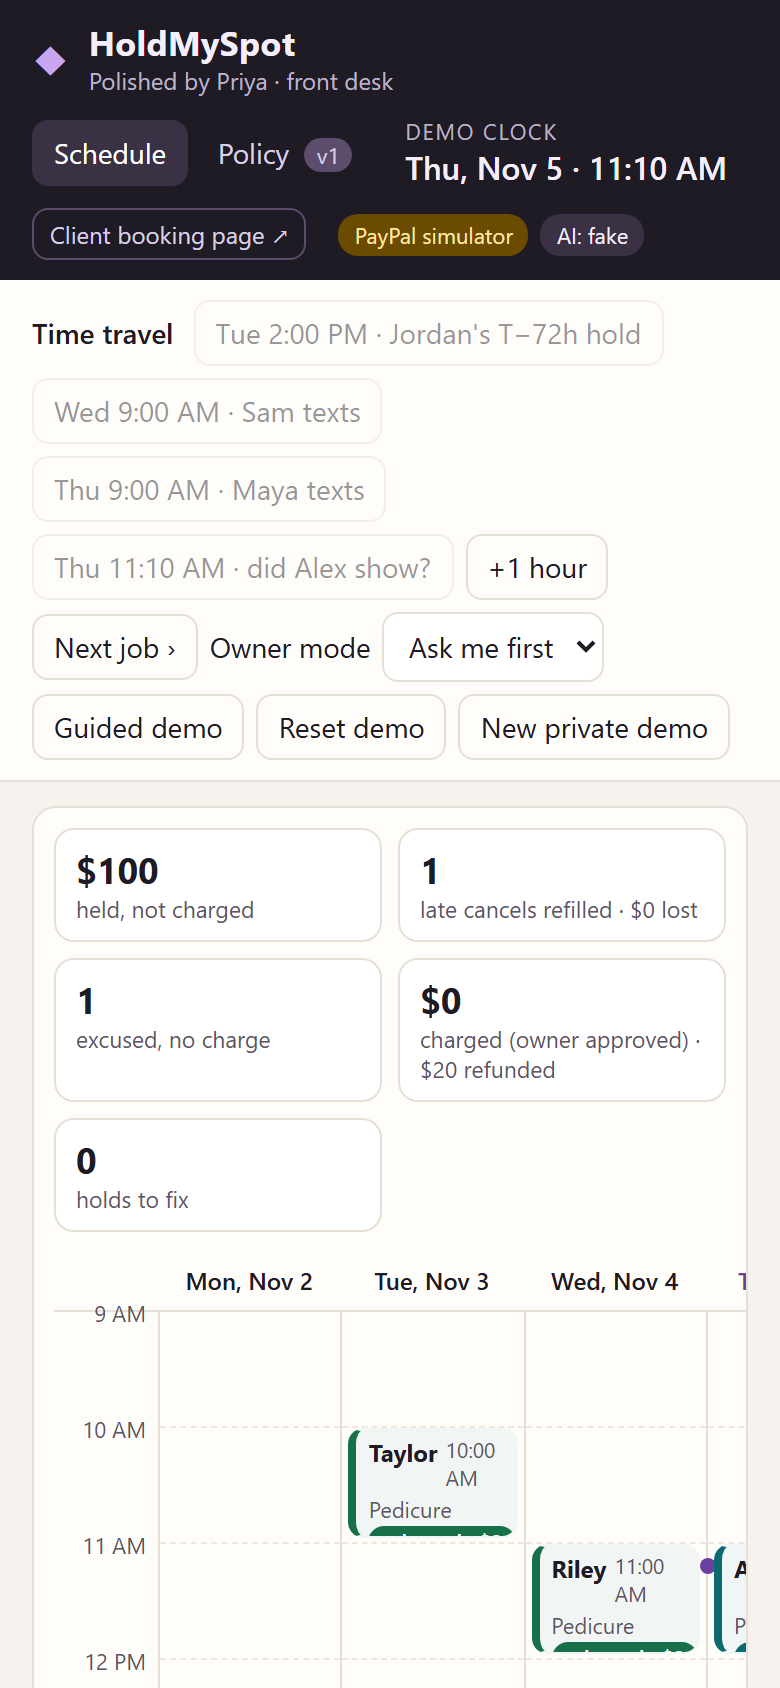
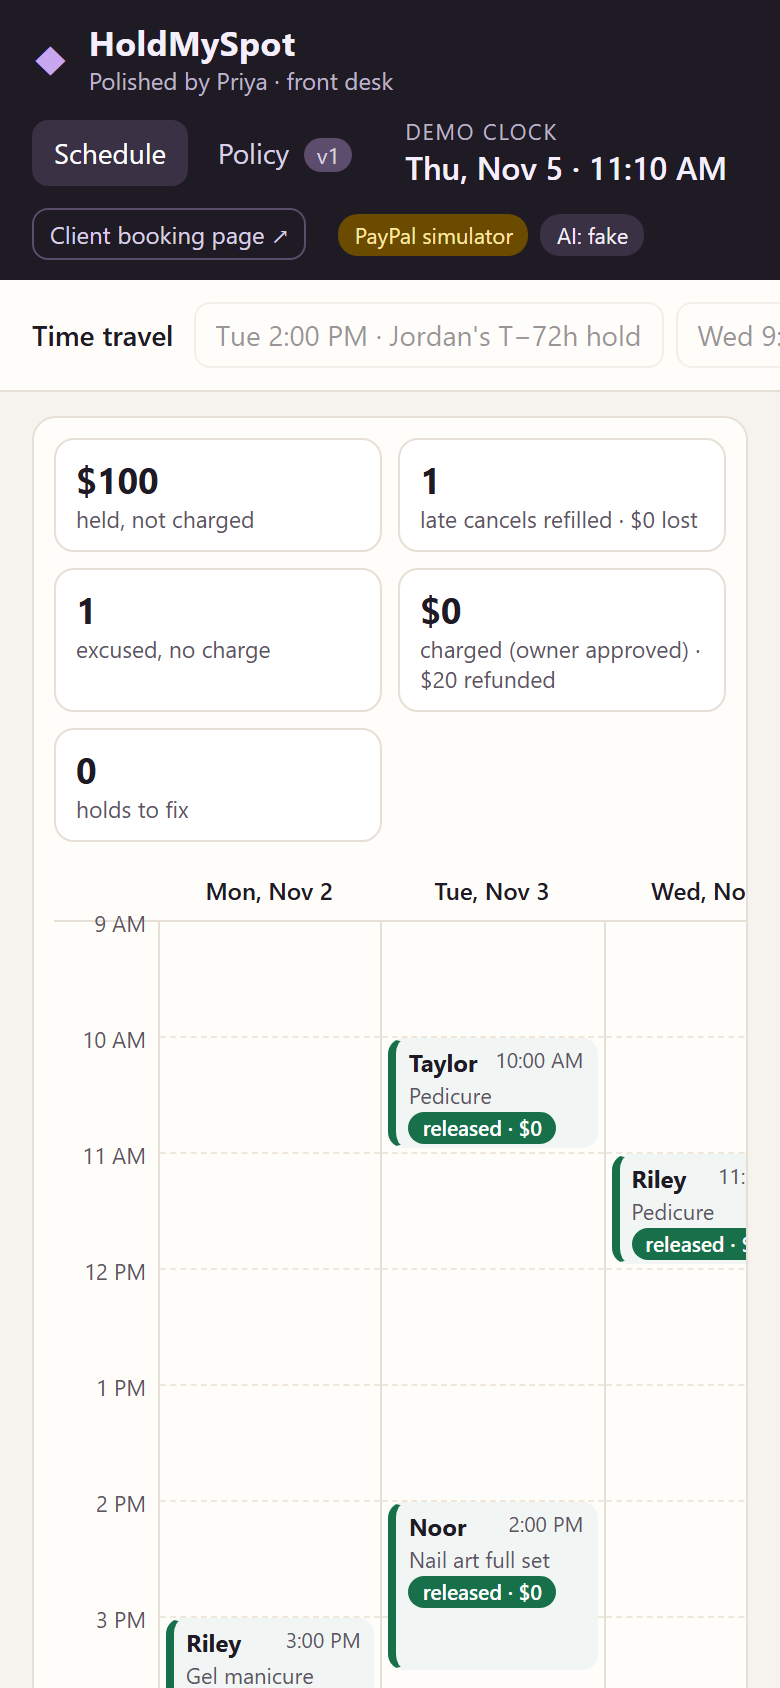
Fix money review findings: no-hold refills show no money at stake, surface failed late voids, drop approval links on every refill, cap fee window at the 72h hold lead, demo never taps arrived on non-seeded bookings, honest no-hold replies; regression tests

diff --git a/server/src/engine/engine.ts b/server/src/engine/engine.ts
@@ -93,6 +93,8 @@ export class Engine {
   /** bookingId -> every authorization id seen for it (guards against late/duplicate events) */
   private knownAuths = new Map<string, Set<string>>();
   private holdAttempts = new Map<string, number>();
+  /** late authorizations whose void failed: shown to the owner, never silently dropped */
+  unreleasedAuths: Array<{ bookingId: string; authorizationId: string; error: string }> = [];
   private baseUrl: string;
 
   constructor(o: EngineOptions) {
@@ -370,8 +372,15 @@ export class Engine {
     known.add(authorizationId);
     if ((isTerminal(b.state) && b.state !== 'CHARGED') || (b.state === 'PENDING_REFILL' && !b.authorizationId)) {
       // e.g. an approval that arrives after the booking was cancelled: release it right away
-      await this.gateway.void(authorizationId, this.intentKey(b, 'void', authorizationId)).catch(() => undefined);
-      this.audit.add('paypal', `void late authorization ${authorizationId}: booking is ${b.state}`, { bookingId: b.id });
+      try {
+        await this.gateway.void(authorizationId, this.intentKey(b, 'void', authorizationId));
+        this.audit.add('paypal', `void late authorization ${authorizationId}: booking is ${b.state}`, { bookingId: b.id });
+      } catch (err) {
+        // never claim a release that did not happen: keep it visible so the owner can release it
+        this.unreleasedAuths.push({ bookingId: b.id, authorizationId, error: (err as Error).message });
+        this.audit.add('paypal', `VOID FAILED for late authorization ${authorizationId} (${(err as Error).message}); needs a manual release`, { bookingId: b.id });
+        this.emit('state');
+      }
       return;
     }
     b.authorizationId = authorizationId;
@@ -472,6 +481,7 @@ export class Engine {
       if (d.outcome === 'PENDING_REFILL' || d.outcome === 'OWNER_REVIEW') {
         // Late cancel: same refill-then-settle path as a held booking; the settle step is an automatic waiver.
         b.cancelledAt = this.now();
+        if (d.outcome === 'OWNER_REVIEW') this.audit.add('engine', `owner not asked: ${d.why}, but no hold is in place, so there is no fee to decide`, { bookingId: b.id });
         await this.startRefill(b, `${d.why}; no hold in place, so no fee is possible`);
         return d;
       }
@@ -585,6 +595,8 @@ export class Engine {
 
   private async startRefill(b: Booking, why: string): Promise<void> {
     this.setState(b, 'PENDING_REFILL', why);
+    // the slot is given up: no older approval link may attach a new hold to it
+    this.dropPendingApprovals(b);
     const svc = this.services.get(b.serviceId)!;
     const eligible = this.eligibleWaitlist(b);
     if (b.start > this.now() && eligible.length) {
@@ -637,7 +649,7 @@ export class Engine {
     this.setState(slot, 'REFILLED', `refilled by ${this.client(nb.clientId).name}`);
     this.say(nb.clientId, `Confirmed! See you ${this.slotLabel(nb)}.`);
     for (const id of o.offeredTo.filter((x) => x !== nb.clientId)) this.say(id, 'That spot has been filled. You are still on the waitlist.');
-    await this.reply(slot, 'refilled');
+    await this.reply(slot, slot.authorizationId ? 'refilled' : 'refilled_no_hold');
   }
 
   private offerForClaim(nb: Booking): RefillOffer | undefined {
@@ -679,7 +691,11 @@ export class Engine {
     if (!b.authorizationId) {
       // Late cancel with no hold in place: nothing to capture, so the fee is waived automatically.
       this.setState(b, 'EXCUSED', 'not refilled; no hold was in place, so the fee is waived');
-      this.say(b.clientId, `Hi ${this.client(b.clientId).name.split(' ')[0]}, we couldn't refill your spot, but there's no fee this time because no hold was in place.`);
+      const tried = this.offers.some((o) => o.slotBookingId === b.id);
+      this.say(
+        b.clientId,
+        `Hi ${this.client(b.clientId).name.split(' ')[0]}, thanks for letting us know. ${tried ? "We couldn't refill your spot, but there's" : "There's"} no fee this time because no PayPal hold was in place for this visit.`,
+      );
       return;
     }
     const fee = decide({ booking: b, rules: this.policy.rules, now: this.now(), kind: 'no_show', priorExcusals: 0 });
@@ -812,7 +828,8 @@ export class Engine {
       ...b,
       clientName: this.client(b.clientId).name,
       serviceName: this.services.get(b.serviceId)?.name,
-      money: b.refundId ? 'refunded' : !b.authorizationId && !['BOOKED', 'VAULTED', 'HOLD_FAILED', 'PENDING_REFILL'].includes(b.state) ? 'none' : moneyState(b.state, !!b.captureId),
+      // a booking that never had an authorization has no money at stake, whatever its state
+      money: b.refundId ? 'refunded' : !b.authorizationId && !['VAULTED', 'HOLD_FAILED'].includes(b.state) ? 'none' : moneyState(b.state, !!b.captureId),
     });
     return {
       workspace: this.id,
@@ -828,6 +845,7 @@ export class Engine {
       bookings: [...this.bookings.values()].sort((a, b) => a.start - b.start).map(view),
       waitlist: this.waitlist,
       approvals: this.openApprovals(),
+      unreleasedAuths: this.unreleasedAuths,
       offers: this.offers,
       messages: this.messages,
       jobs: this.clock.pending(),

diff --git a/server/test/noHoldRefill.test.ts b/server/test/noHoldRefill.test.ts
@@ -1,4 +1,5 @@
 import { beforeEach, describe, expect, it } from 'vitest';
+import { DEFAULT_RULES, validateRules } from '../src/domain/policy.js';
 import type { Engine } from '../src/engine/engine.js';
 import type { MockPayPalGateway } from '../src/paypal/mock.js';
 import { Workspaces } from '../src/workspaces.js';
@@ -84,7 +85,84 @@ describe('late cancel with no hold in place', () => {
     await new Promise((r) => setImmediate(r));
     await new Promise((r) => setImmediate(r));
     expect(ben.authorizationId).toBeUndefined();
+    expect(mock.authorizationStatus(auth.status === 'AUTHORIZED' ? auth.authorizationId : '')).toBe('VOIDED');
     expect(e.audit.forBooking(ben.id).some((x) => /void late authorization/.test(x.summary))).toBe(true);
+  });
+
+  it('a failed void of a late authorization is surfaced, never logged as released', async () => {
+    await e.clock.advanceTo(at(7, 1));
+    const ben = bk('ben');
+    const orderId = ben.orderId!;
+    await e.receiveMessage('ben', "I can't make it today, something came up");
+    mock.approve(orderId);
+    const realVoid = mock.void.bind(mock);
+    mock.void = async () => {
+      throw new Error('INTERNAL_SERVER_ERROR');
+    };
+    const auth = await mock.authorizeApprovedOrder(orderId, 'out-of-band');
+    await new Promise((r) => setImmediate(r));
+    await new Promise((r) => setImmediate(r));
+    mock.void = realVoid;
+    const id = auth.status === 'AUTHORIZED' ? auth.authorizationId : '';
+    expect(e.unreleasedAuths).toEqual([expect.objectContaining({ bookingId: ben.id, authorizationId: id })]);
+    expect(e.snapshot().unreleasedAuths).toHaveLength(1);
+    expect(e.audit.forBooking(ben.id).some((x) => /^void late authorization/.test(x.summary))).toBe(false);
+    expect(e.audit.forBooking(ben.id).some((x) => /VOID FAILED/.test(x.summary))).toBe(true);
+  });
+
+  it('shows no money at stake while a no-hold booking waits for a refill', async () => {
+    await e.clock.advanceTo(at(7, 1));
+    const ben = bk('ben');
+    await e.receiveMessage('ben', "I can't make it today, something came up");
+    expect(ben.state).toBe('PENDING_REFILL');
+    expect(money(ben.id)).toBe('none');
+  });
+
+  it('a booking whose T-72h hold failed (re-approval link pending) follows the same path', async () => {
+    await e.clock.advanceTo(at(6, 9)); // Jordan: Fri 14:00, MIT hold declined at T-72h, link not used
+    const jordan = bk('jordan');
+    expect(jordan.state).toBe('HOLD_FAILED');
+    const orderId = jordan.approvalLink!.split('/').at(-1)!;
+    e.waitlist = [];
+    await e.receiveMessage('jordan', "can't make it today, sorry");
+    expect(jordan.state).toBe('EXCUSED');
+    expect(jordan.captureId).toBeUndefined();
+    expect(e.openApprovals().some((a) => a.bookingId === jordan.id)).toBe(false);
+    expect(e.hasPendingApproval(orderId)).toBe(false);
+  });
+
+  it('a claim that times out on a no-hold slot passes the offer on, then waives at the cutoff', async () => {
+    await e.clock.advanceTo(at(7, 1));
+    const ben = bk('ben');
+    await e.receiveMessage('ben', "I can't make it today, something came up");
+    await e.receiveMessage('dana', 'yes'); // Dana has no saved wallet: buyer approval needed within 10 min
+    const nb = [...e.bookings.values()].find((x) => x.clientId === 'dana' && x.refillOfBookingId === ben.id)!;
+    await e.clock.advanceTo(at(7, 1, 11));
+    expect(nb.state).toBe('CANCELLED_EARLY');
+    expect(ben.state).toBe('PENDING_REFILL');
+    await e.clock.advanceTo(ben.start);
+    expect(ben.state).toBe('EXCUSED');
+    expect(e.openApprovals().some((a) => a.bookingId === ben.id)).toBe(false);
+  });
+
+  it('a refilled no-hold client is not told about a hold being released', async () => {
+    await e.clock.advanceTo(at(7, 1));
+    const ben = bk('ben');
+    await e.receiveMessage('ben', "I can't make it today, something came up");
+    await e.receiveMessage('dana', 'yes');
+    const nb = [...e.bookings.values()].find((x) => x.clientId === 'dana' && x.refillOfBookingId === ben.id)!;
+    const orderId = nb.approvalLink!.split('/').at(-1)!;
+    mock.approve(orderId);
+    await e.completeApproval(orderId);
+    expect(ben.state).toBe('REFILLED');
+    const last = e.messages.filter((m) => m.clientId === 'ben').at(-1)!.text;
+    expect(last).toMatch(/nothing to pay/);
+    expect(last).not.toMatch(/hold/);
+  });
+
+  it('the policy cannot set a fee window longer than the 72h hold lead', () => {
+    expect(validateRules({ ...DEFAULT_RULES, freeCancelHours: 96 })).toEqual([expect.stringContaining('0..72')]);
+    expect(validateRules({ ...DEFAULT_RULES, freeCancelHours: 72 })).toEqual([]);
   });
 
   it('an early cancel with no hold still just frees the slot', async () => {

diff --git a/server/test/e2e.test.ts b/server/test/e2e.test.ts
@@ -175,7 +175,8 @@ describe('e2e over HTTP: guided demo', () => {
     expect(last.result.bookingIds.taylor).toBe(taylorThu.id);
     expect(booking(s, 'alex').money).toBe('refunded');
     expect(s.bookings.filter((b: any) => b.money === 'captured')).toHaveLength(0);
-    expect(s.approvals.filter((a: any) => a.kind !== 'attendance' || booking(s, 'alex').id === a.bookingId)).toHaveLength(0);
+    expect(s.approvals).toHaveLength(0);
+    expect(s.unreleasedAuths).toHaveLength(0);
     await expect(post('demo/next')).rejects.toThrow('demo finished');
     // reset replays from the top
     await post('reset');
@@ -192,6 +193,24 @@ describe('e2e over HTTP: guided demo', () => {
     await post('demo/next'); // jordan beat still fine
     await post('demo/next');
     await post('demo/next'); // sam texts again: no active booking, polite reply
+    const before = (await get('state')).bookings.map((b: any) => [b.id, b.money, b.captureId]);
     await expect(post('demo/next')).rejects.toThrow('off-script');
+    const after = (await get('state')).bookings.map((b: any) => [b.id, b.money, b.captureId]);
+    expect(after).toEqual(before);
+    expect(after.some(([, , cap]: any[]) => cap)).toBe(false);
+  });
+
+  it("never taps 'arrived' on a booking it did not seed (e.g. a judge's own booking)", async () => {
+    const slots: number[] = await get('slots?service=pedi&n=1');
+    const b = await post('book', { name: 'Judge Visit', serviceId: 'pedi', start: slots[0] }); // Tue 3 Nov, within 72h
+    const token = b.result.approvalLink.split('/').at(-1);
+    await post(`sim/approve/${token}`);
+    for (let i = 0; i < 7; i++) await post('demo/next'); // past Thu 9 AM
+    const s = await get('state');
+    const judge = s.bookings.find((x: any) => x.id === b.result.id);
+    // left for a real owner tap: unanswered by end of day it becomes NEEDS_REVIEW, still held, nothing released or charged
+    expect(judge.state).toBe('NEEDS_REVIEW');
+    expect(judge.money).toBe('held');
+    expect(judge.captureId).toBeUndefined();
   });
 });

diff --git a/server/src/demo.ts b/server/src/demo.ts
@@ -34,11 +34,19 @@ function card(e: Engine, clientId: string, kind: string) {
   return a;
 }
 
-/** Routine visits that happened while the clock jumped: Priya marks them arrived, which releases their holds. */
+/** The seeded regulars whose routine visits the script may mark as arrived. */
+const SEEDED_REGULARS = new Set(['riley', 'taylor', 'noor', 'sam', 'maya', 'alex', 'jordan', 'ben', 'eli', 'chris', 'dana']);
+
+/**
+ * Routine seeded visits that happened while the clock jumped: Priya marks them arrived, which releases their holds.
+ * Bookings anyone else made (e.g. a judge on the booking page) are never touched: their cards stay for a real tap.
+ */
 async function tidyRoutineVisits(e: Engine, keep: string[]): Promise<void> {
   for (const a of e.openApprovals()) {
     if (a.kind !== 'attendance') continue;
-    if (keep.includes(e.booking(a.bookingId).clientId)) continue;
+    const b = e.booking(a.bookingId);
+    if (!SEEDED_REGULARS.has(b.clientId) || b.refillOfBookingId) continue;
+    if (keep.includes(b.clientId)) continue;
     await e.resolveApproval(a.id, 'arrived');
   }
 }

diff --git a/server/src/domain/policy.ts b/server/src/domain/policy.ts
@@ -49,7 +49,8 @@ export function validateRules(r: PolicyRules): string[] {
   if (!int(r.holdCents) || r.holdCents === 0) errs.push('holdCents must be a positive integer');
   if (!int(r.lateCancelFeeCents) || r.lateCancelFeeCents > r.holdCents) errs.push('lateCancelFeeCents must be <= holdCents');
   if (!int(r.noShowFeeCents) || r.noShowFeeCents > r.holdCents) errs.push('noShowFeeCents must be <= holdCents');
-  if (!(r.freeCancelHours >= 0 && r.freeCancelHours <= 168)) errs.push('freeCancelHours must be 0..168');
+  if (!(r.freeCancelHours >= 0 && r.freeCancelHours <= 72))
+    errs.push('freeCancelHours must be 0..72: the PayPal hold is placed 72h before the visit, so a longer fee window could never be charged');
   if (!(r.minConfidence > 0 && r.minConfidence <= 1)) errs.push('minConfidence must be in (0,1]');
   if (r.excusedReasons.some((x) => r.protectedReasons.includes(x))) errs.push('a reason cannot be both excused and protected');
   return errs;

diff --git a/server/src/ai/fake.ts b/server/src/ai/fake.ts
@@ -191,6 +191,8 @@ function draftReply(name: string, situation: string, f: Record<string, string>):
       return `No problem, ${first}. You cancelled in time, so your hold is released. Hope to see you soon!`;
     case 'pending_refill':
       return `Thanks for letting me know, ${first}. I'll try to fill your spot from the waitlist first. If I do, you pay nothing.`;
+    case 'refilled_no_hold':
+      return `Good news, ${first}: your spot was filled, so there's nothing to pay.`;
     case 'refilled':
       return `Good news, ${first}: your spot was filled, so you pay $0. Your hold is released.`;
     case 'charged':

diff --git a/web/src/App.tsx b/web/src/App.tsx
@@ -483,6 +483,11 @@ function Approvals({
       <h2>
         Needs you <span className="count">{s.approvals.length}</span>
       </h2>
+      {(s.unreleasedAuths ?? []).map((u) => (
+        <div key={u.authorizationId} className="error" role="alert">
+          PayPal hold {u.authorizationId} could not be released automatically ({u.error}). Release it in PayPal.
+        </div>
+      ))}
       {s.approvals.length === 0 && <p className="muted">Nothing to decide. Charges always wait for your tap.</p>}
       {s.approvals
         .slice()

diff --git a/web/src/api.ts b/web/src/api.ts
@@ -76,6 +76,7 @@ export interface Snapshot {
   bookings: BookingView[];
   waitlist: Array<{ id: string; clientId: string; text: string; parsed?: { serviceIds: string[]; days: number[]; earliestMin: number; latestMin: number } }>;
   approvals: Approval[];
+  unreleasedAuths?: Array<{ bookingId: string; authorizationId: string; error: string }>;
   messages: ChatMessage[];
   jobs: Array<{ id: string; at: number; name: string }>;
 }
